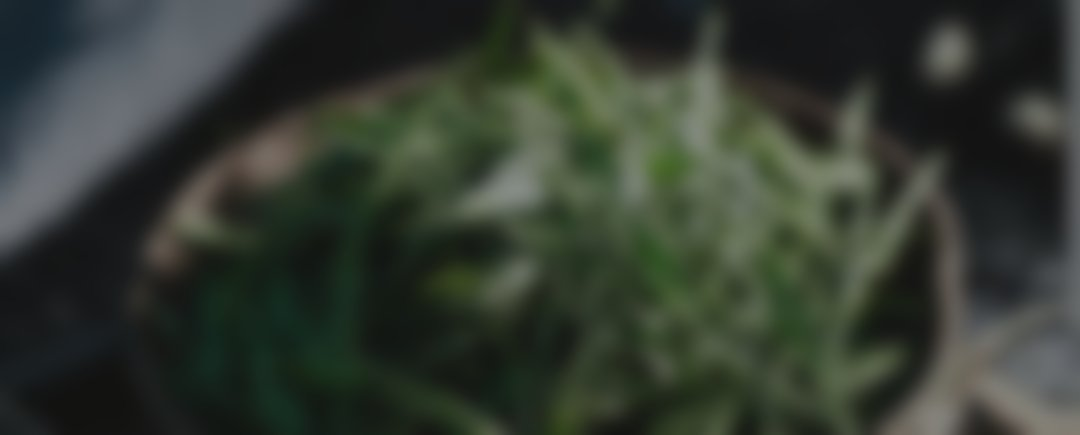
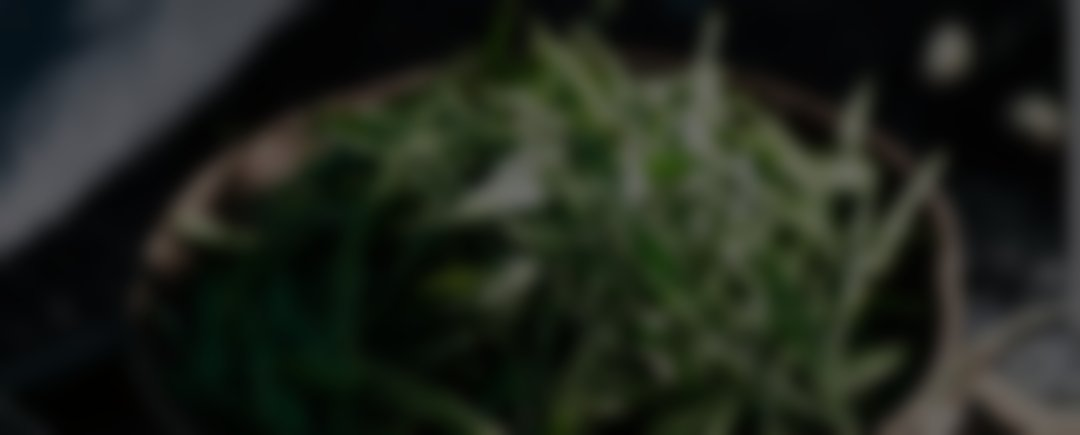
mado(wuyi-tea): 修真机上的背景与横幅，图片可点开预览
- 底图不再 position:fixed：小程序 image 是原生组件，fixed 大图在滚动时
  位置同步不稳，观感像背景一直在动；改为随内容滚动的 absolute + 深绿渐变兜底，
  照片压到 opacity .62 只提供质感
- 横幅图写死高度（82/151/196）：原先 height:100% 在原生 image 上会塌，
  导致「高山生态茶园」这类横幅只剩透明底，露出下层背景
- 新增 preview-image：两张大图与三张工艺图可点开微信大图预览
- 重新生成 demos.json 的文件哈希，小程序端能拉到这次改动

diff --git a/mado/wuyi-tea/style.css b/mado/wuyi-tea/style.css
@@ -1,21 +1,27 @@
 /* 武夷山金骏眉 · 商品详情
    设计基准 375（引擎按 width/375 换算，小程序侧 1px = 2rpx）。
-   背景固定层用 image 承载：CSS 子集不支持 url() 背景图，且小程序 image 固定 aspectFit，
-   所以底图/横幅图都按目标容器比例预裁，避免出现留白。 */
+   CSS 子集不支持 url() 背景图，照片一律用 image 承载；小程序 image 固定 aspectFit，
+   所以底图/横幅图都按目标容器比例预裁。
+   放在容器里的图片全部写死宽高、不用百分比：小程序 image 是原生组件，百分比高度会塌。 */
 
 .page {
+  position: relative;
   display: block;
-  background-color: #0f2418;
+  background: linear-gradient(180deg, #1d3a28 0%, #16301f 24%, #12291b 58%, #0e2115 100%);
 }
 
-/* 固定底图 + 压暗层：滚动时不动，卡片浮在其上 */
+/* 首屏底图跟着内容走，不用 fixed：fixed 的原生 image 在滚动时位置同步不稳定，
+   观感像背景一直在动；这里让它随页面滚出视口，下方交给渐变底色。 */
 .bg {
-  position: fixed;
+  position: absolute;
   left: 0;
   top: 0;
   width: 375px;
   height: 875px;
   z-index: 0;
+  /* 照片只提供一层质感，主色由 .page 的深绿渐变决定：
+     压到 0.62 后不会出现大片灰白高光，也不会和下方的纯色断层。 */
+  opacity: 0.62;
 }
 
 .body {
@@ -180,8 +186,19 @@
   left: 0;
   top: 0;
   width: 375px;
-  height: 100%;
   z-index: 0;
+}
+
+.band-a .band-img {
+  height: 82px;
+}
+
+.band-b .band-img {
+  height: 151px;
+}
+
+.band-c .band-img {
+  height: 196px;
 }
 
 .band-title {
@@ -208,9 +225,32 @@
 
 /* ---------- 全幅照片 ---------- */
 
+.photo-wrap {
+  position: relative;
+  display: block;
+  width: 375px;
+}
+
 .photo {
   display: block;
   width: 375px;
+}
+
+/* 透明命中层：点整张图调宿主的 preview-image */
+.photo-hit {
+  position: absolute;
+  left: 0;
+  top: 0;
+  right: 0;
+  bottom: 0;
+  margin: 0;
+  padding: 0;
+  border-radius: 0;
+  background-color: transparent;
+  color: transparent;
+  font-size: 1px;
+  line-height: 1px;
+  opacity: 0;
 }
 
 .photo-garden {
@@ -234,10 +274,33 @@
   display: block;
 }
 
+.craft-shot {
+  position: relative;
+  display: block;
+  width: 107px;
+  height: 149px;
+}
+
 .craft-img {
   display: block;
   width: 107px;
   height: 149px;
+}
+
+.craft-hit {
+  position: absolute;
+  left: 0;
+  top: 0;
+  right: 0;
+  bottom: 0;
+  margin: 0;
+  padding: 0;
+  border-radius: 0;
+  background-color: transparent;
+  color: transparent;
+  font-size: 1px;
+  line-height: 1px;
+  opacity: 0;
 }
 
 .craft-cap {

diff --git a/mado/wuyi-tea/page.md b/mado/wuyi-tea/page.md
@@ -83,7 +83,10 @@ stylesheet: ./style.css
       <text class="band-title">高山生态茶园</text>
       <text class="band-sub">核心原产地 绝对纯正</text>
     </view>
-    <image class="photo photo-garden" src="./images/garden.jpg" alt="武夷山高山生态茶园" />
+    <view class="photo-wrap">
+      <image class="photo photo-garden" src="./images/garden.jpg" alt="武夷山高山生态茶园" />
+      <button class="photo-hit" text=" " action="preview-image" src="./images/garden.jpg" />
+    </view>
 
     <view class="band band-b">
       <image class="band-img" src="./images/band2.jpg" alt="" />
@@ -91,7 +94,10 @@ stylesheet: ./style.css
       <text class="band-title">出好茶</text>
       <text class="band-sub">细心甄选 给您最好的体验</text>
     </view>
-    <image class="photo photo-leaves" src="./images/leaves.jpg" alt="甄选的茶鲜叶" />
+    <view class="photo-wrap">
+      <image class="photo photo-leaves" src="./images/leaves.jpg" alt="甄选的茶鲜叶" />
+      <button class="photo-hit" text=" " action="preview-image" src="./images/leaves.jpg" />
+    </view>
 
     <view class="band band-c">
       <image class="band-img" src="./images/band3.jpg" alt="" />
@@ -103,15 +109,24 @@ stylesheet: ./style.css
 
     <view class="craft">
       <view class="craft-item">
-        <image class="craft-img" src="./images/pick.jpg" alt="人工采摘" />
+        <view class="craft-shot">
+          <image class="craft-img" src="./images/pick.jpg" alt="人工采摘" />
+          <button class="craft-hit" text=" " action="preview-image" src="./images/pick.jpg" />
+        </view>
         <text class="craft-cap">人工采摘</text>
       </view>
       <view class="craft-item">
-        <image class="craft-img" src="./images/roast.jpg" alt="匠心炒制" />
+        <view class="craft-shot">
+          <image class="craft-img" src="./images/roast.jpg" alt="匠心炒制" />
+          <button class="craft-hit" text=" " action="preview-image" src="./images/roast.jpg" />
+        </view>
         <text class="craft-cap">匠心炒制</text>
       </view>
       <view class="craft-item">
-        <image class="craft-img" src="./images/store.jpg" alt="保鲜封存" />
+        <view class="craft-shot">
+          <image class="craft-img" src="./images/store.jpg" alt="保鲜封存" />
+          <button class="craft-hit" text=" " action="preview-image" src="./images/store.jpg" />
+        </view>
         <text class="craft-cap">保鲜封存</text>
       </view>
     </view>
